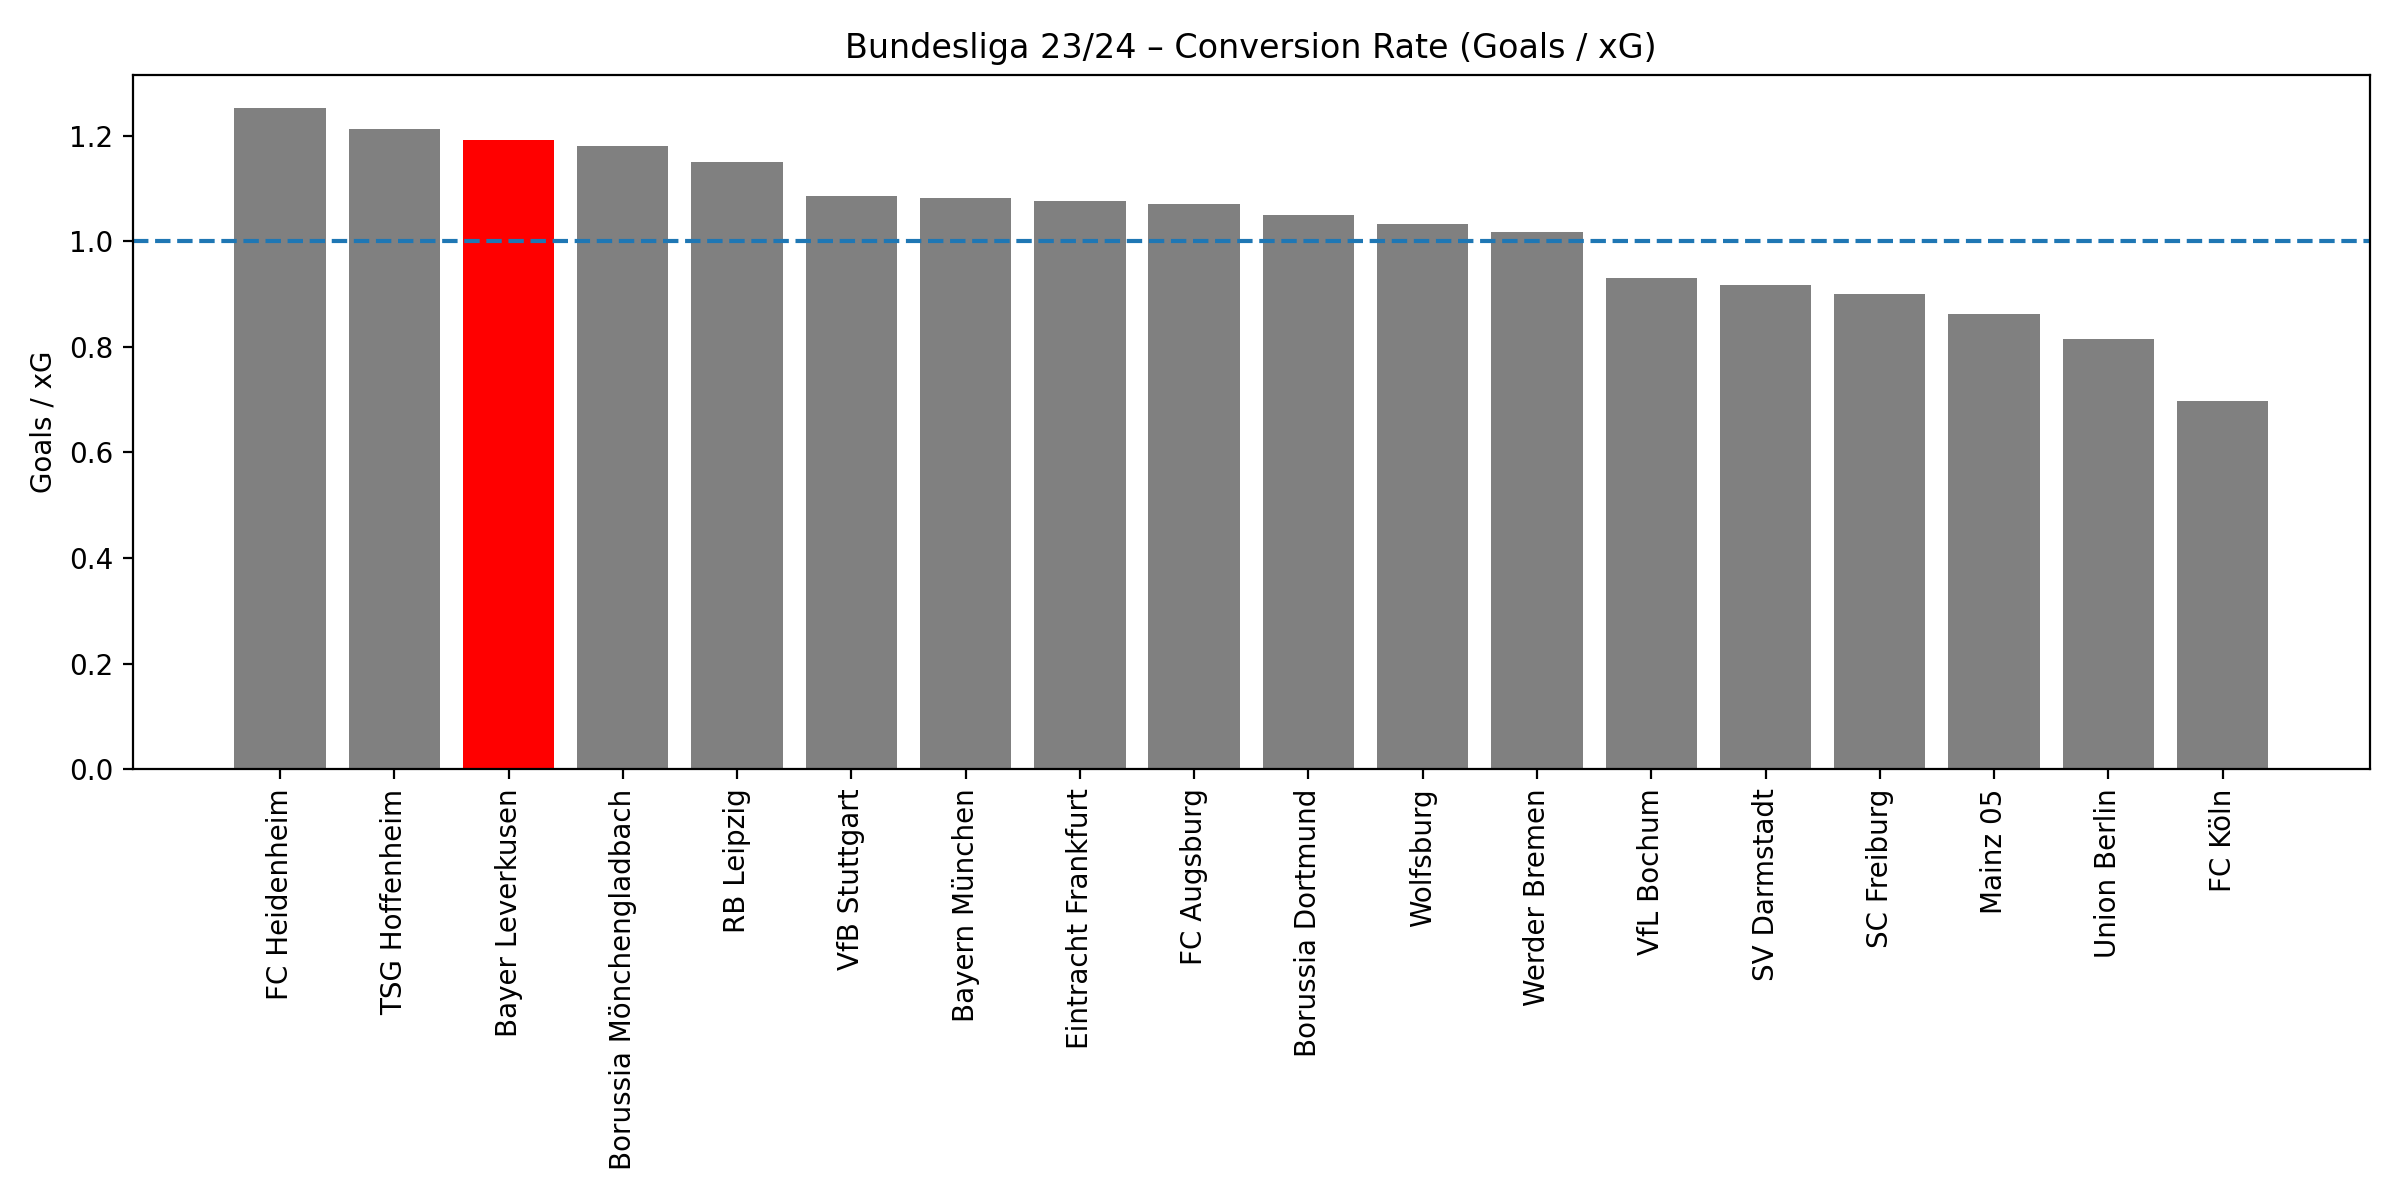
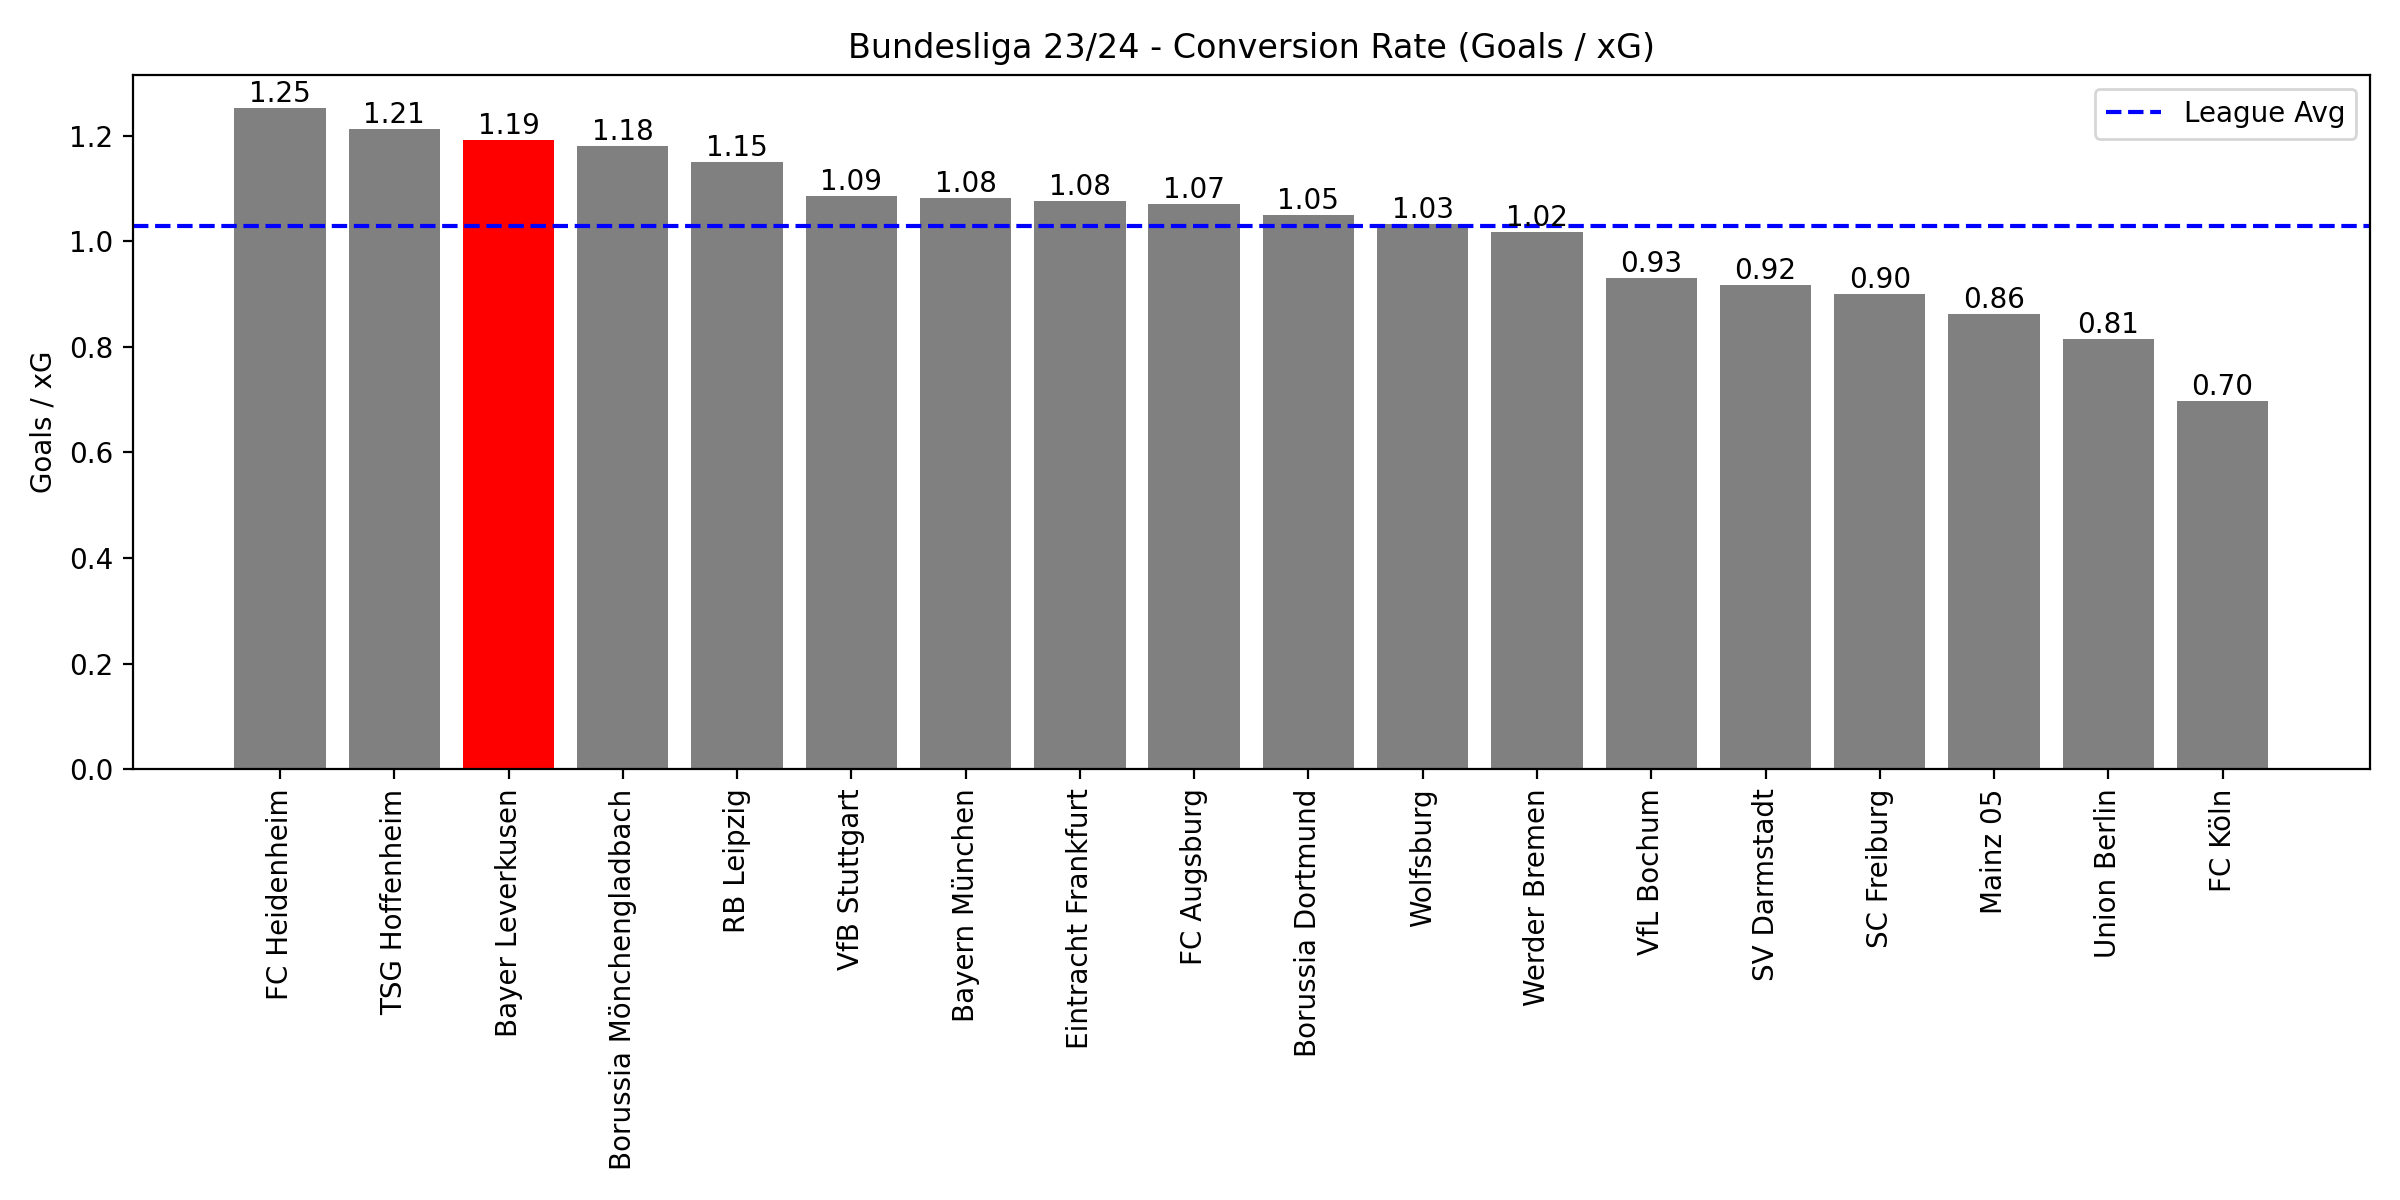
added value labels for league comparison

diff --git a/visualizations/viz_conversion_vs_league.py b/visualizations/viz_conversion_vs_league.py
@@ -25,12 +25,18 @@ def main():
 
     colors = ["red" if t == TEAM_NAME else "grey" for t in df_conv["Team"]]
 
-    ax.bar(df_conv["Team"], df_conv["conversion_rate"], color=colors)
+    bars = ax.bar(df_conv["Team"], df_conv["conversion_rate"], color=colors)
+    ax.bar_label(bars, fmt="%.2f")
 
-    ax.axhline(1.0, linestyle="--")
+    league_average = df_conv["conversion_rate"].mean()
+
+    ax.axhline(league_average, linestyle="--", color="blue", label="League Avg")
+    ax.legend()
     ax.set_title("Bundesliga 23/24 - Conversion Rate (Goals / xG)")
     ax.set_ylabel("Goals / xG")
     ax.set_xticklabels(df_conv["Team"], rotation=90)
+
+    print(f"League average: {league_average}")
 
     fig.tight_layout()
     fig.savefig(FIG_CONVERSION, dpi=200)
@@ -45,7 +51,8 @@ def main():
 
     colors = ["red" if t == TEAM_NAME else "grey" for t in df_goals["Team"]]
 
-    ax.bar(df_goals["Team"], df_goals["Goals"], color=colors)
+    barsgoals = ax.bar(df_goals["Team"], df_goals["Goals"], color=colors)
+    ax.bar_label(barsgoals, fmt="%.2f")
 
     ax.set_title("Bundesliga 23/24 - Goals Scored")
     ax.set_ylabel("Goals")

diff --git a/visualizations/viz_league_comparison_build_up.py b/visualizations/viz_league_comparison_build_up.py
@@ -24,7 +24,8 @@ def main():
     
     colors = ["red" if t == TEAM_NAME else "grey" for t in df_pos["Team"]]
 
-    ax.bar(df_pos["Team"], df_pos["Possession (%)"], color=colors)
+    bars = ax.bar(df_pos["Team"], df_pos["Possession (%)"], color=colors)
+    ax.bar_label(bars, fmt="%.0f%%")
 
     ax.set_title("Bundesliga 23/24 - Possesion (%)")
     ax.set_ylabel("Possesion (%)")
@@ -43,7 +44,8 @@ def main():
     
     colors = ["red" if t == TEAM_NAME else "grey" for t in df_acc["Team"]]
 
-    ax.bar(df_acc["Team"], df_acc["Pass Success (%)"], color=colors)
+    barsacc = ax.bar(df_acc["Team"], df_acc["Pass Success (%)"], color=colors)
+    ax.bar_label(barsacc, fmt="%.0f%%")
 
     ax.set_title("Bundesliga 23/24 - Pass Accuracy (%)")
     ax.set_ylabel("Pass Accuracy (%)")

diff --git a/visualizations/viz_league_comparison_defence.py b/visualizations/viz_league_comparison_defence.py
@@ -30,7 +30,9 @@ def bar_chart(df, team_col, value_col, title, ylabel, out_path, highlight=TEAM_N
     colors = ["red" if t == highlight else "grey" for t in df[team_col]]
 
     fig, ax = plt.subplots(figsize=(12, 6))
-    ax.bar(df[team_col], df[value_col], color=colors)
+    bars = ax.bar(df[team_col], df[value_col], color=colors)
+    ax.bar_label(bars, fmt="%.2f")
+
     ax.set_title(title)
     ax.set_ylabel(ylabel)
     ax.set_xticklabels(df[team_col], rotation=90)
